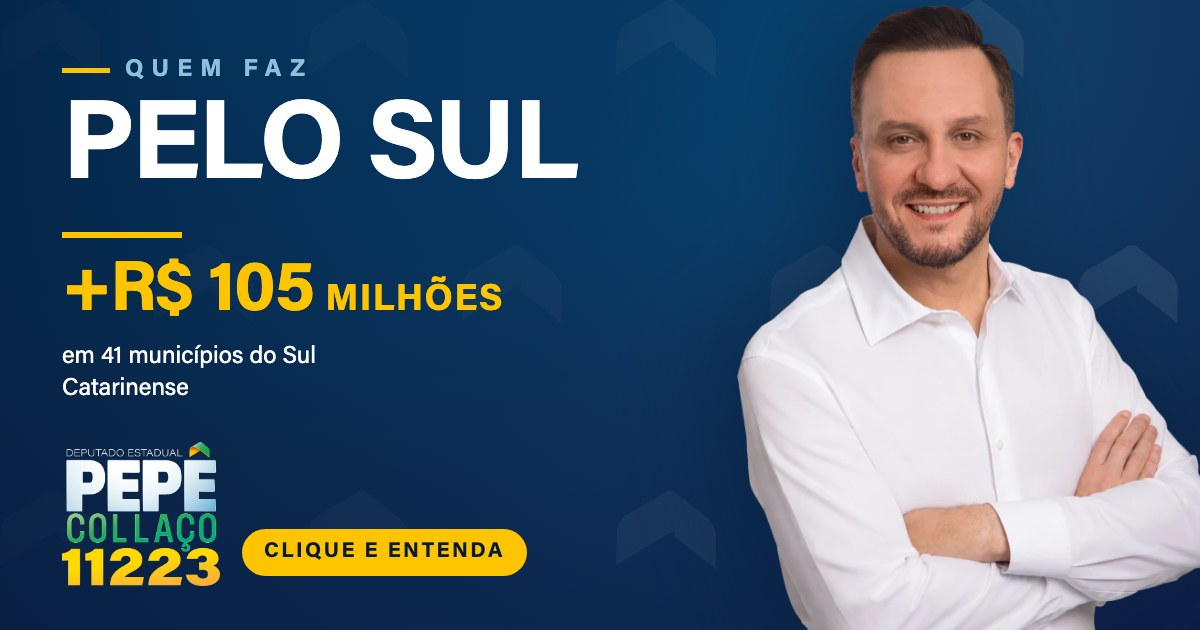
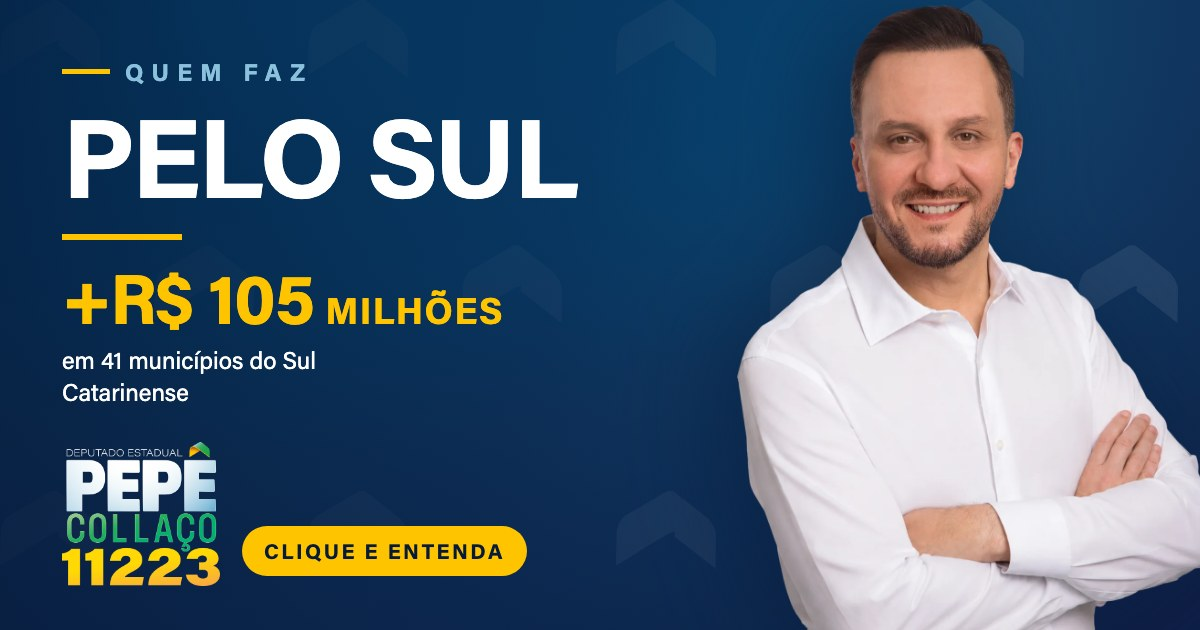
Serve a Acumin pelo kit licenciado da Adobe Fonts
O --fonte em _IDENTIDADE/src/tokens.css passa a pedir "acumin-pro"
primeiro — a família do kit ojd2pjl — com a cópia self-hosted logo atrás
como reserva. Isso fecha a pendência registrada no CLAUDE.md da
identidade: a licença desktop da Adobe não cobre self-host de webfont em
site público, e o kit é justamente a via que cobre.

As páginas ganham o <link> do kit e perdem o preload dos woff2 locais:
com o kit primeiro, o navegador nunca busca os arquivos locais, então
pré-carregar 38 KB deles virou peso morto. Eles continuam servindo de
reserva se a CDN da Adobe não responder — é a mesma letra, o leitor não
percebe a troca.

Conferido no navegador: o h1 renderiza com acumin-pro 700 vindo da Adobe
e nenhum woff2 local é requisitado. As seis OG foram regeradas.

Changed region(s): [[0.0308, 0.0905, 0.4933, 0.3317], [0.0308, 0.3619, 0.4317, 0.6333], [0.185, 0.8143, 0.4317, 0.9048]]

diff --git a/quem-faz/pela-amurel/index.html b/quem-faz/pela-amurel/index.html
@@ -24,8 +24,12 @@
   <link rel="icon" href="../../assets/brand/simbolo/favicon-512.png" sizes="512x512" />
   <link rel="apple-touch-icon" href="../../assets/brand/simbolo/apple-touch-icon.png" />
 
-  <link rel="preload" href="../../assets/brand/fontes/acumin-700.woff2" as="font" type="font/woff2" crossorigin />
-  <link rel="preload" href="../../assets/brand/fontes/acumin-400.woff2" as="font" type="font/woff2" crossorigin />
+  <!-- Acumin Pro pelo kit licenciado da Adobe Fonts. A cópia self-hosted em
+       assets/brand/fontes/ segue como reserva no --fonte, e só é baixada se
+       este kit não responder — por isso ela não é mais pré-carregada. -->
+  <link rel="preconnect" href="https://use.typekit.net" crossorigin />
+  <link rel="preconnect" href="https://p.typekit.net" crossorigin />
+  <link rel="stylesheet" href="https://use.typekit.net/ojd2pjl.css" />
   <link rel="stylesheet" href="../../assets/brand/css/tipografia.css" />
   <link rel="stylesheet" href="../../assets/brand/css/tokens.css" />
   <link rel="stylesheet" href="../quem-faz.css" />

diff --git a/quem-faz/pela-educacao/index.html b/quem-faz/pela-educacao/index.html
@@ -24,8 +24,12 @@
   <link rel="icon" href="../../assets/brand/simbolo/favicon-512.png" sizes="512x512" />
   <link rel="apple-touch-icon" href="../../assets/brand/simbolo/apple-touch-icon.png" />
 
-  <link rel="preload" href="../../assets/brand/fontes/acumin-700.woff2" as="font" type="font/woff2" crossorigin />
-  <link rel="preload" href="../../assets/brand/fontes/acumin-400.woff2" as="font" type="font/woff2" crossorigin />
+  <!-- Acumin Pro pelo kit licenciado da Adobe Fonts. A cópia self-hosted em
+       assets/brand/fontes/ segue como reserva no --fonte, e só é baixada se
+       este kit não responder — por isso ela não é mais pré-carregada. -->
+  <link rel="preconnect" href="https://use.typekit.net" crossorigin />
+  <link rel="preconnect" href="https://p.typekit.net" crossorigin />
+  <link rel="stylesheet" href="https://use.typekit.net/ojd2pjl.css" />
   <link rel="stylesheet" href="../../assets/brand/css/tipografia.css" />
   <link rel="stylesheet" href="../../assets/brand/css/tokens.css" />
   <link rel="stylesheet" href="../quem-faz.css" />

diff --git a/quem-faz/pelas-cidades/index.html b/quem-faz/pelas-cidades/index.html
@@ -24,8 +24,12 @@
   <link rel="icon" href="../../assets/brand/simbolo/favicon-512.png" sizes="512x512" />
   <link rel="apple-touch-icon" href="../../assets/brand/simbolo/apple-touch-icon.png" />
 
-  <link rel="preload" href="../../assets/brand/fontes/acumin-700.woff2" as="font" type="font/woff2" crossorigin />
-  <link rel="preload" href="../../assets/brand/fontes/acumin-400.woff2" as="font" type="font/woff2" crossorigin />
+  <!-- Acumin Pro pelo kit licenciado da Adobe Fonts. A cópia self-hosted em
+       assets/brand/fontes/ segue como reserva no --fonte, e só é baixada se
+       este kit não responder — por isso ela não é mais pré-carregada. -->
+  <link rel="preconnect" href="https://use.typekit.net" crossorigin />
+  <link rel="preconnect" href="https://p.typekit.net" crossorigin />
+  <link rel="stylesheet" href="https://use.typekit.net/ojd2pjl.css" />
   <link rel="stylesheet" href="../../assets/brand/css/tipografia.css" />
   <link rel="stylesheet" href="../../assets/brand/css/tokens.css" />
   <link rel="stylesheet" href="../quem-faz.css" />

diff --git a/quem-faz/pelo-autismo/index.html b/quem-faz/pelo-autismo/index.html
@@ -24,8 +24,12 @@
   <link rel="icon" href="../../assets/brand/simbolo/favicon-512.png" sizes="512x512" />
   <link rel="apple-touch-icon" href="../../assets/brand/simbolo/apple-touch-icon.png" />
 
-  <link rel="preload" href="../../assets/brand/fontes/acumin-700.woff2" as="font" type="font/woff2" crossorigin />
-  <link rel="preload" href="../../assets/brand/fontes/acumin-400.woff2" as="font" type="font/woff2" crossorigin />
+  <!-- Acumin Pro pelo kit licenciado da Adobe Fonts. A cópia self-hosted em
+       assets/brand/fontes/ segue como reserva no --fonte, e só é baixada se
+       este kit não responder — por isso ela não é mais pré-carregada. -->
+  <link rel="preconnect" href="https://use.typekit.net" crossorigin />
+  <link rel="preconnect" href="https://p.typekit.net" crossorigin />
+  <link rel="stylesheet" href="https://use.typekit.net/ojd2pjl.css" />
   <link rel="stylesheet" href="../../assets/brand/css/tipografia.css" />
   <link rel="stylesheet" href="../../assets/brand/css/tokens.css" />
   <link rel="stylesheet" href="../quem-faz.css" />

diff --git a/quem-faz/pelo-sul/index.html b/quem-faz/pelo-sul/index.html
@@ -24,8 +24,12 @@
   <link rel="icon" href="../../assets/brand/simbolo/favicon-512.png" sizes="512x512" />
   <link rel="apple-touch-icon" href="../../assets/brand/simbolo/apple-touch-icon.png" />
 
-  <link rel="preload" href="../../assets/brand/fontes/acumin-700.woff2" as="font" type="font/woff2" crossorigin />
-  <link rel="preload" href="../../assets/brand/fontes/acumin-400.woff2" as="font" type="font/woff2" crossorigin />
+  <!-- Acumin Pro pelo kit licenciado da Adobe Fonts. A cópia self-hosted em
+       assets/brand/fontes/ segue como reserva no --fonte, e só é baixada se
+       este kit não responder — por isso ela não é mais pré-carregada. -->
+  <link rel="preconnect" href="https://use.typekit.net" crossorigin />
+  <link rel="preconnect" href="https://p.typekit.net" crossorigin />
+  <link rel="stylesheet" href="https://use.typekit.net/ojd2pjl.css" />
   <link rel="stylesheet" href="../../assets/brand/css/tipografia.css" />
   <link rel="stylesheet" href="../../assets/brand/css/tokens.css" />
   <link rel="stylesheet" href="../quem-faz.css" />

diff --git a/quem-faz/por-tubarao/index.html b/quem-faz/por-tubarao/index.html
@@ -24,8 +24,12 @@
   <link rel="icon" href="../../assets/brand/simbolo/favicon-512.png" sizes="512x512" />
   <link rel="apple-touch-icon" href="../../assets/brand/simbolo/apple-touch-icon.png" />
 
-  <link rel="preload" href="../../assets/brand/fontes/acumin-700.woff2" as="font" type="font/woff2" crossorigin />
-  <link rel="preload" href="../../assets/brand/fontes/acumin-400.woff2" as="font" type="font/woff2" crossorigin />
+  <!-- Acumin Pro pelo kit licenciado da Adobe Fonts. A cópia self-hosted em
+       assets/brand/fontes/ segue como reserva no --fonte, e só é baixada se
+       este kit não responder — por isso ela não é mais pré-carregada. -->
+  <link rel="preconnect" href="https://use.typekit.net" crossorigin />
+  <link rel="preconnect" href="https://p.typekit.net" crossorigin />
+  <link rel="stylesheet" href="https://use.typekit.net/ojd2pjl.css" />
   <link rel="stylesheet" href="../../assets/brand/css/tipografia.css" />
   <link rel="stylesheet" href="../../assets/brand/css/tokens.css" />
   <link rel="stylesheet" href="../quem-faz.css" />

diff --git a/assets/brand/css/tokens.css b/assets/brand/css/tokens.css
@@ -88,7 +88,12 @@
   /* ── Tipografia ────────────────────────────────────────────────────────
      Só existem 400 e 700. Não peça 900: o navegador sintetiza um negrito
      falso e a marca perde. O que for "mais pesado que 700" é imagem. */
-  --fonte: "Acumin Pro", ui-sans-serif, system-ui, -apple-system, "Segoe UI", sans-serif;
+  /* "acumin-pro" é o nome da família servida pelo kit da Adobe Fonts
+     (use.typekit.net/ojd2pjl.css) — é a via licenciada de web font e resolve
+     a pendência de licença registrada no CLAUDE.md. "Acumin Pro" logo atrás é
+     a cópia self-hosted em fontes/: entra se a CDN da Adobe demorar ou cair,
+     e é a mesma letra, então o leitor não percebe a troca. */
+  --fonte: "acumin-pro", "Acumin Pro", ui-sans-serif, system-ui, -apple-system, "Segoe UI", sans-serif;
   --peso-normal: 400;
   --peso-forte: 700;
 

diff --git a/quem-faz/og/template.html b/quem-faz/og/template.html
@@ -13,6 +13,12 @@
   O teste real desta imagem é ser lida em miniatura, no balão de um WhatsApp.
   Por isso: um título gigante, um número, e nada mais competindo.
 -->
+  <!-- Acumin Pro pelo kit licenciado da Adobe Fonts. A cópia self-hosted em
+       assets/brand/fontes/ segue como reserva no --fonte, e só é baixada se
+       este kit não responder — por isso ela não é mais pré-carregada. -->
+  <link rel="preconnect" href="https://use.typekit.net" crossorigin />
+  <link rel="preconnect" href="https://p.typekit.net" crossorigin />
+  <link rel="stylesheet" href="https://use.typekit.net/ojd2pjl.css" />
 <link rel="stylesheet" href="../../assets/brand/css/tipografia.css" />
 <link rel="stylesheet" href="../../assets/brand/css/tokens.css" />
 <style>
